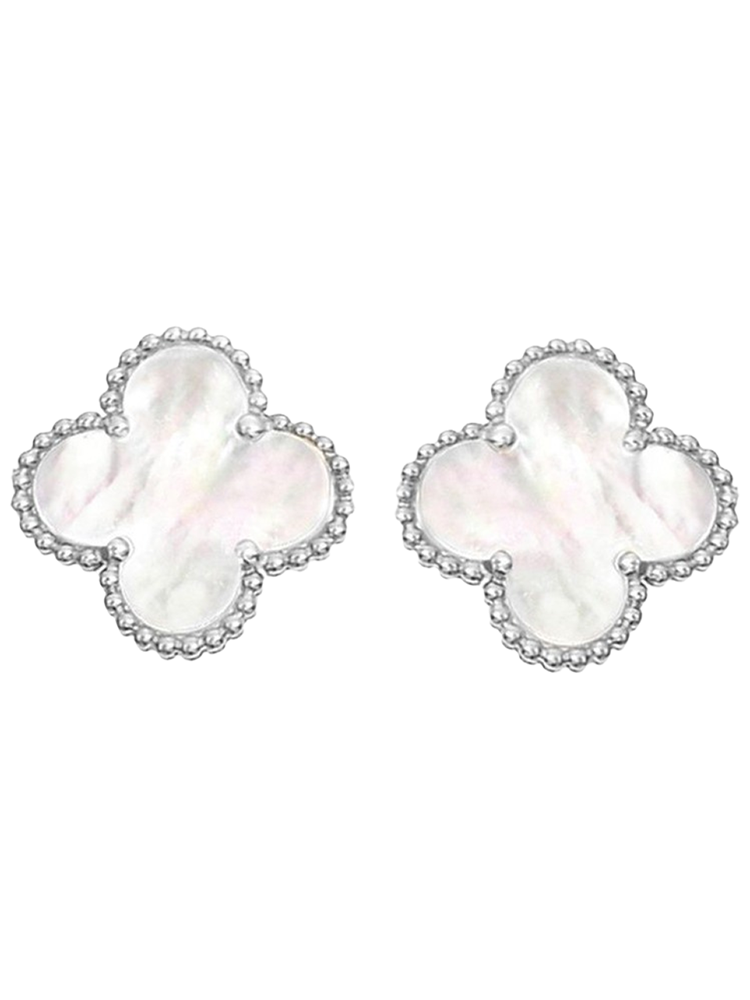
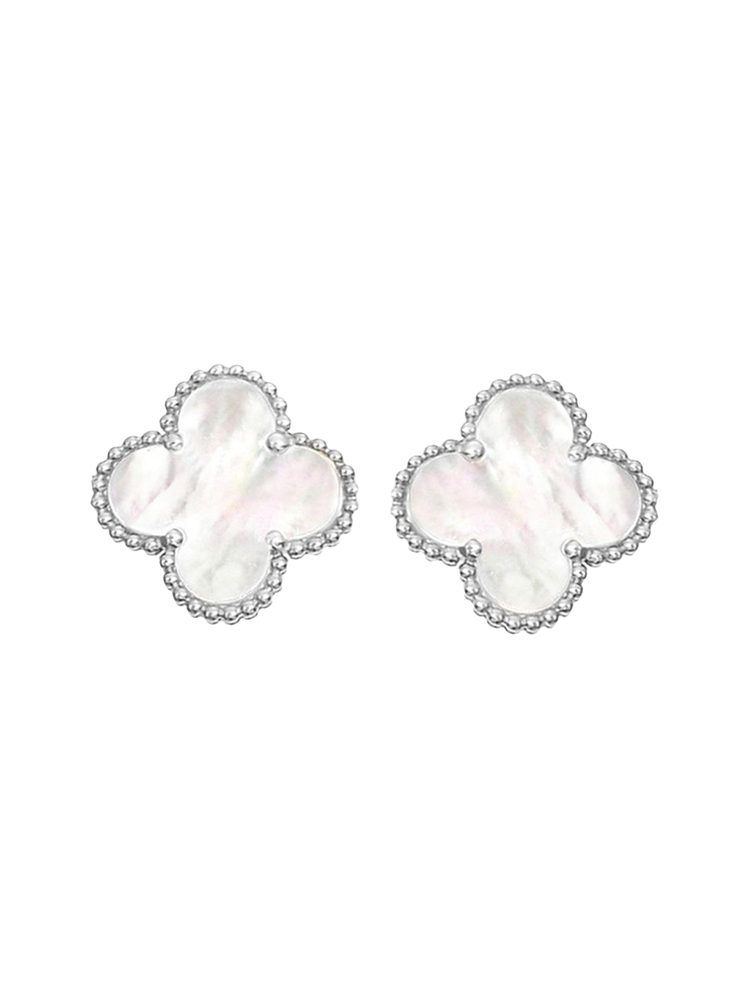
клеверы: новый розовый файл (защита от перезаписи оригиналом)

Changed region(s): [[0.0, 0.31, 0.4907, 0.682], [0.5213, 0.341, 0.9813, 0.682]]

diff --git a/index.html b/index.html
@@ -381,7 +381,7 @@ h1, h2, h3, .serif { font-family: var(--font-serif); font-weight: 500; line-heig
 
 /* Топы (главная категория): вещь целиком */
 .category-card__photo img[src="top-mint2.jpg"] { object-fit: contain; }
-.category-card__photo img[src="f4a8975c0d4e365ef6770d0e41c39225.jpg"] { object-fit: contain; mix-blend-mode: normal; background: #FAF3F1; }
+.category-card__photo img[src="acc-clover-pink.png"] { object-fit: contain; mix-blend-mode: normal; background: #FAF3F1; }
 .category-card__photo img[src="acc-clover2.png"] { object-fit: contain; mix-blend-mode: normal; background: #FAF3F1; }
 
 /* брюки: показываем вещь целиком */
@@ -417,7 +417,7 @@ h1, h2, h3, .serif { font-family: var(--font-serif); font-weight: 500; line-heig
 .card__photo img[src="acc-scarf-dot2.jpg"] { object-fit: contain; }
 .card__photo img[src="acc-bangle-mint.jpg"] { object-fit: contain; mix-blend-mode: multiply; }
 .card__photo img[src="acc-earrings.jpg"] { object-fit: contain; }
-.card__photo img[src="acc-clover2.png"] { object-fit: contain; }
+.card__photo img[src="acc-clover-pink.png"] { object-fit: contain; }
 .card__photo img[src="acc-necklace-pearl.jpg"] { object-fit: contain; }
 .card__photo img[src="acc-cap-pink.jpg"] { object-fit: contain; mix-blend-mode: multiply; }
 .card__photo img[src="outer-pea-gray.jpg"] { object-fit: contain; mix-blend-mode: multiply; }
